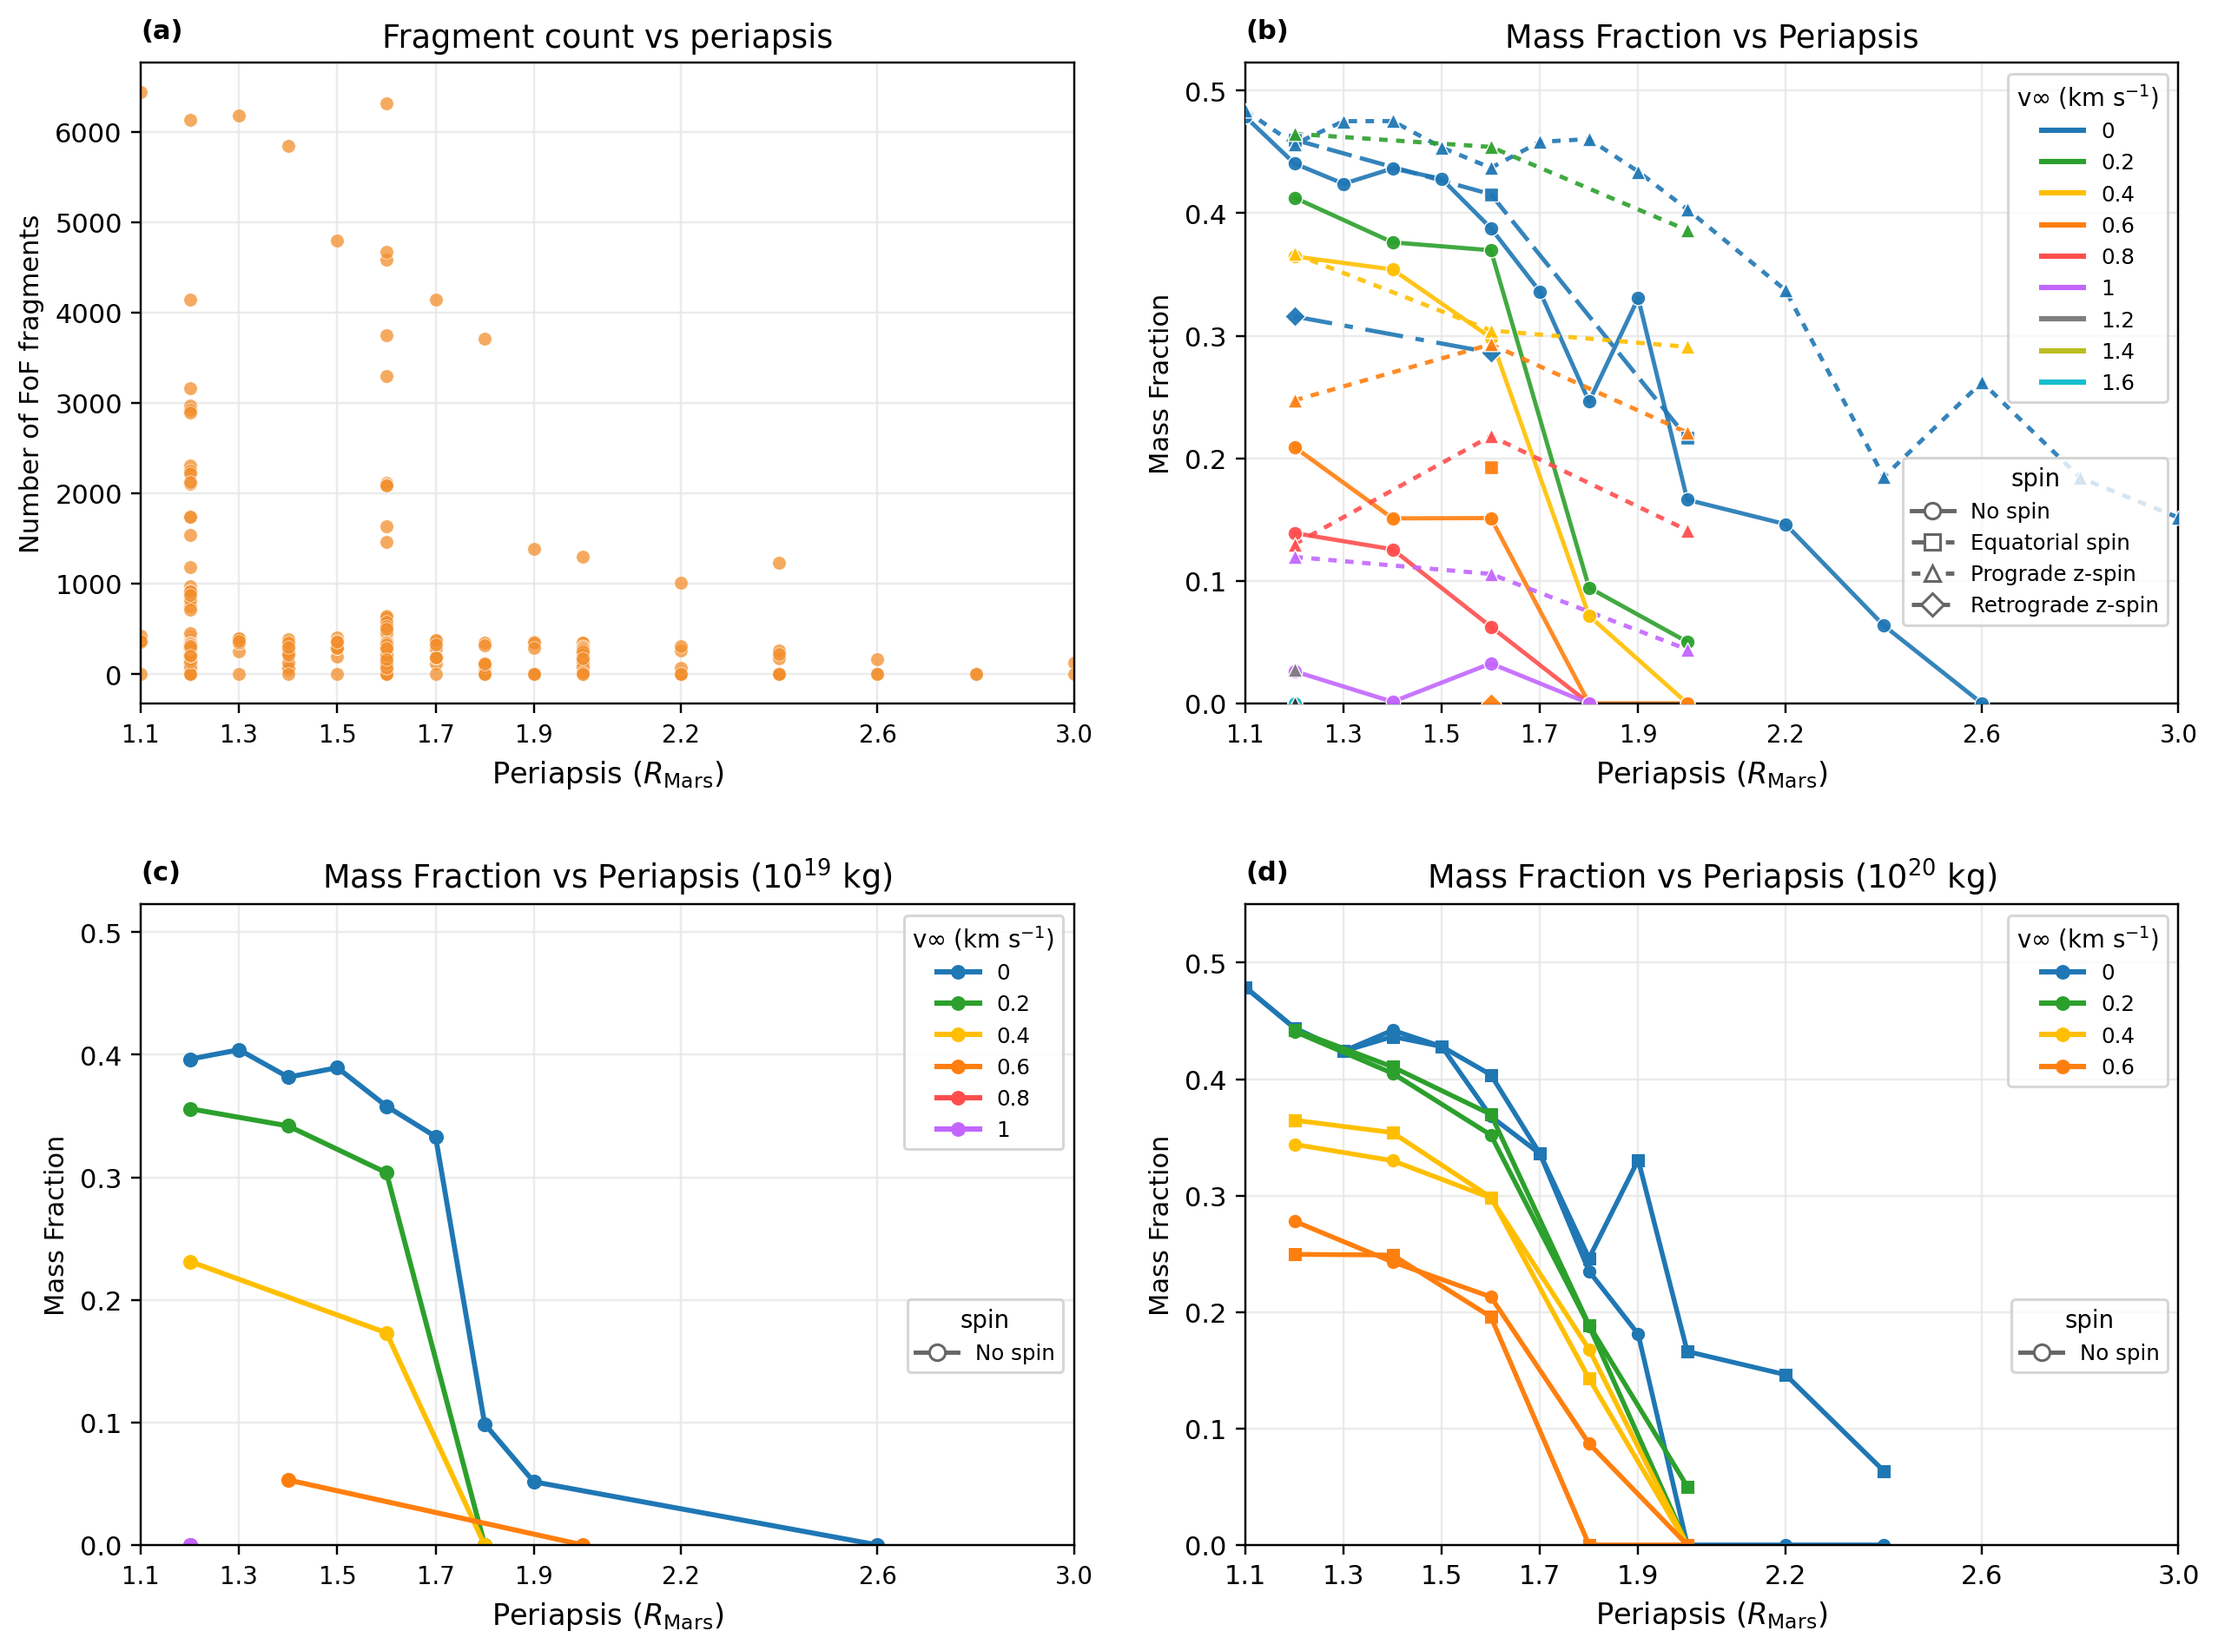
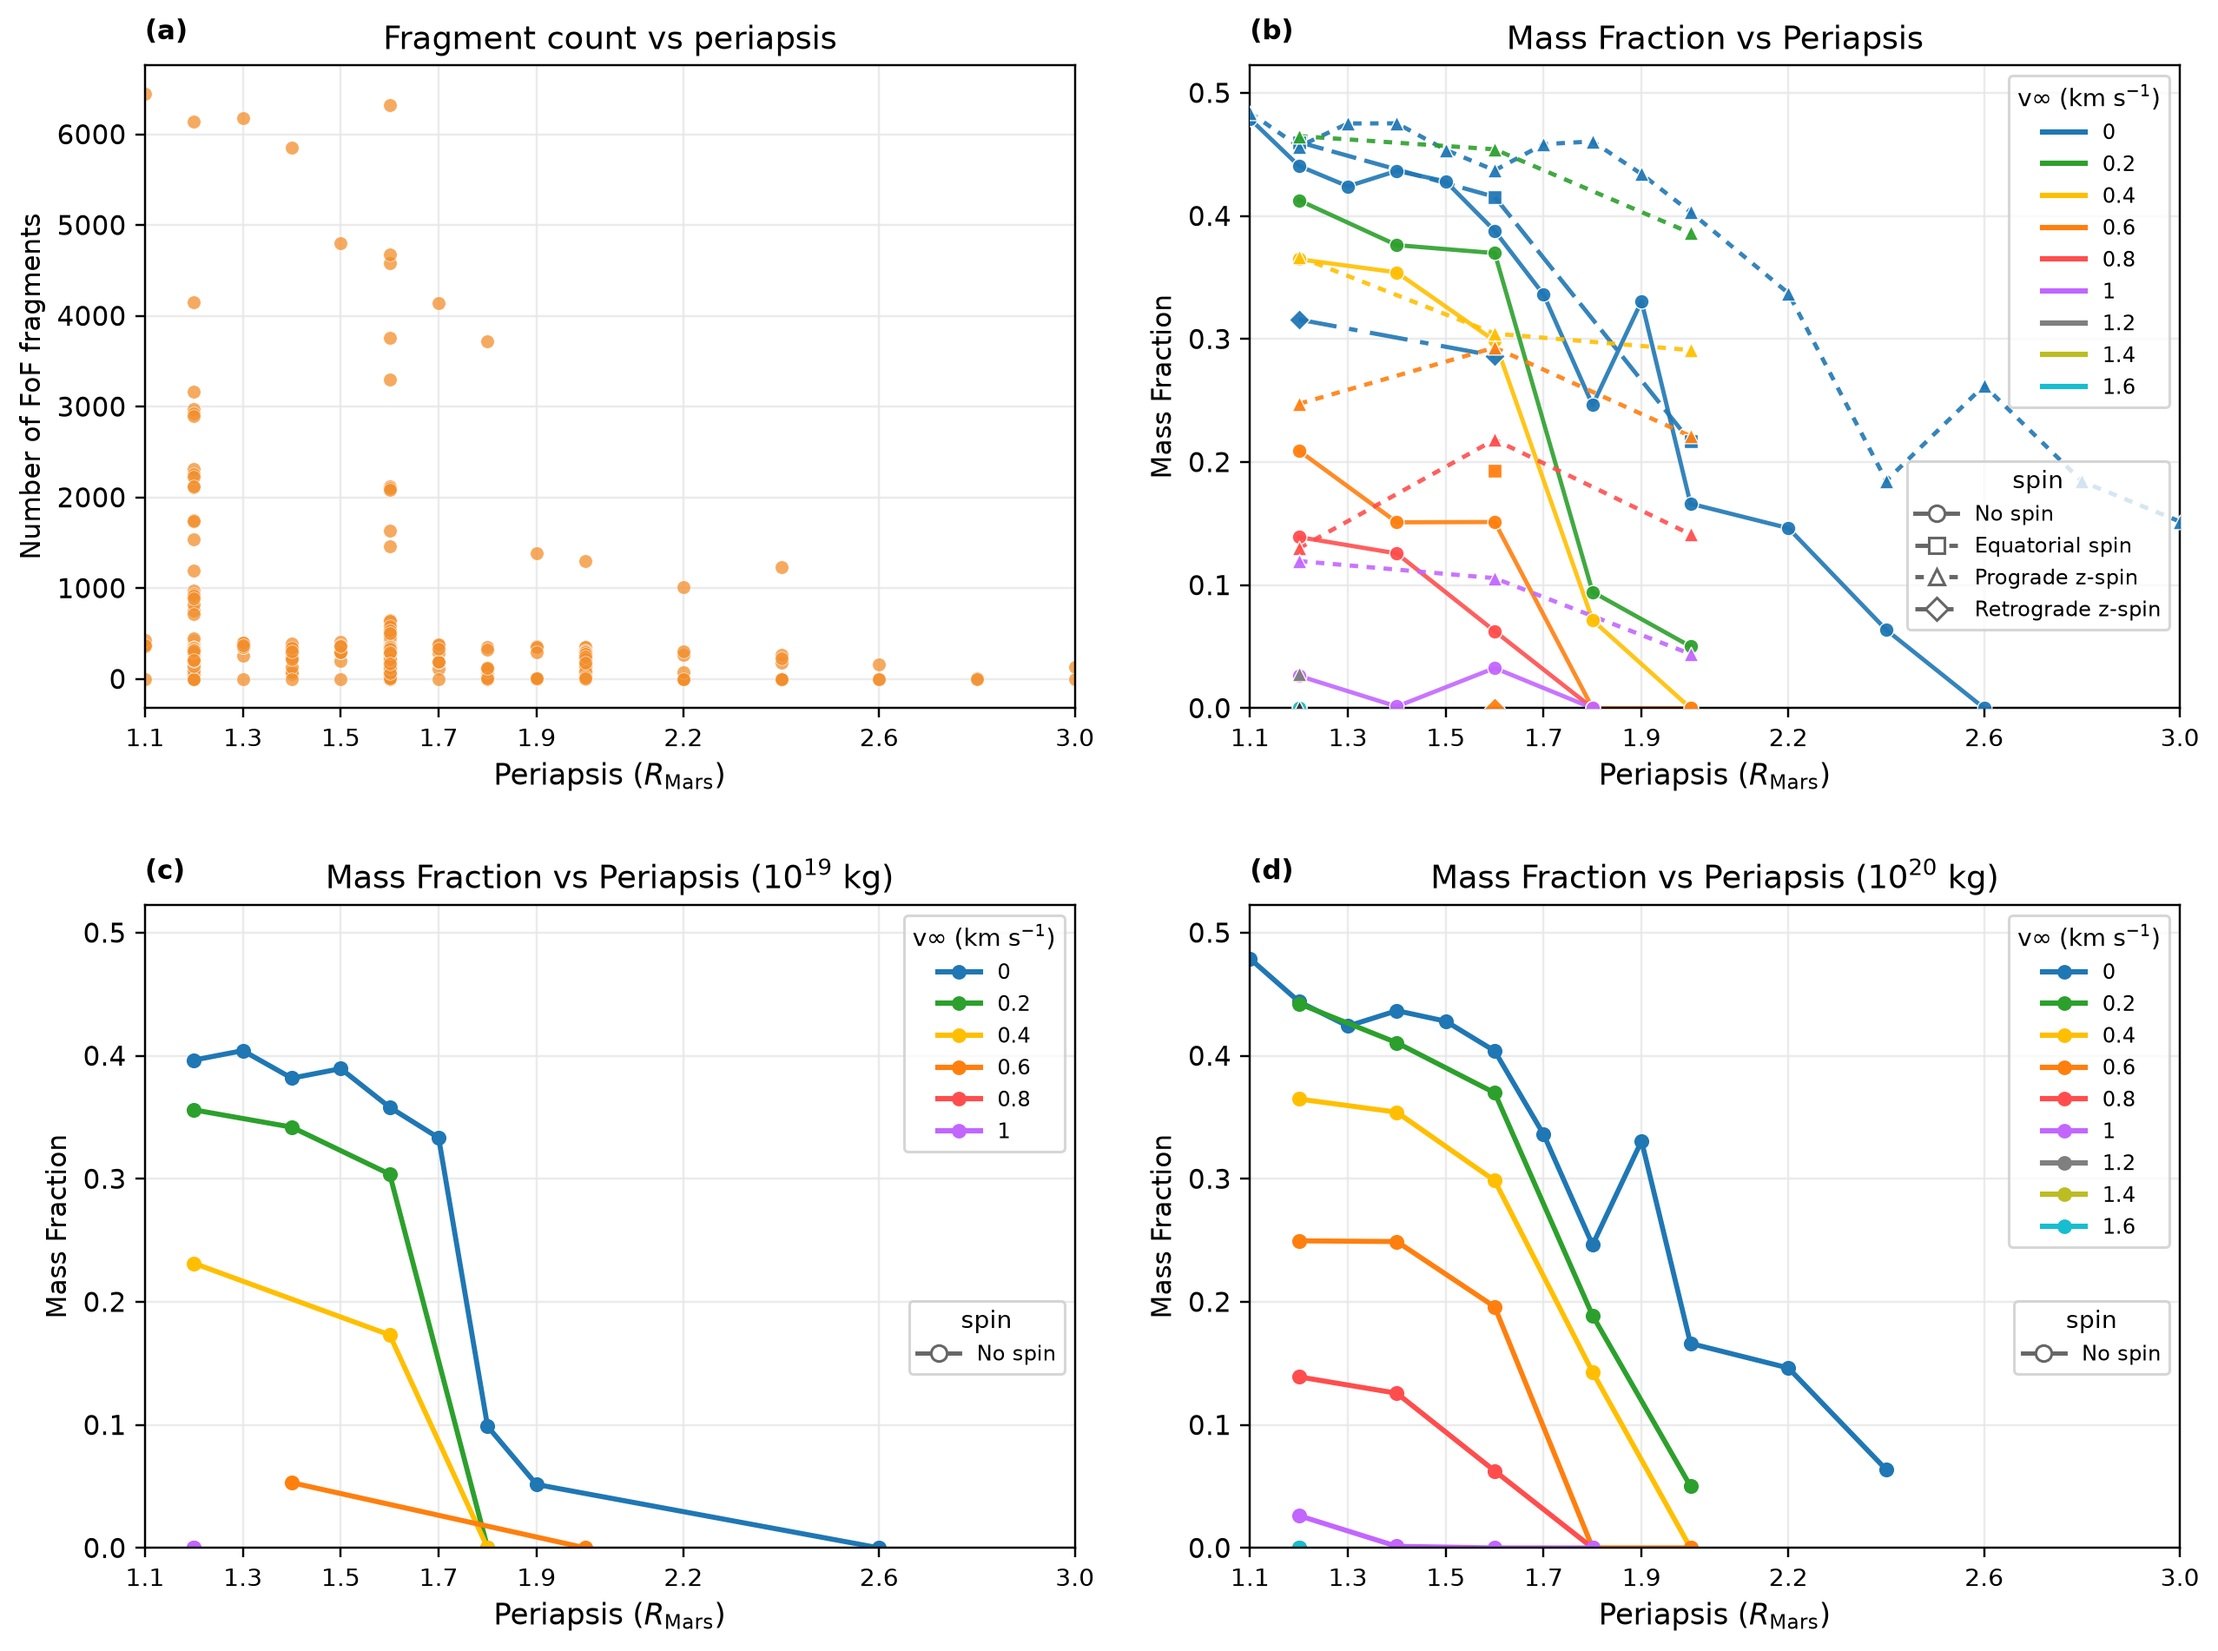
fix: remove paper reference in figure 1

diff --git a/report-table-figure/figures/figure1_build.py b/report-table-figure/figures/figure1_build.py
@@ -271,62 +271,17 @@ def draw_exact_archive_panel(ax: plt.Axes, subset: pd.DataFrame, title: str, y_m
     ax.set_ylim(0.0, y_max)
     style_axes(ax)
     add_exact_legends(ax, keep_velocities)
-def strict_reference_comparison(frame: pd.DataFrame) -> pd.DataFrame:
-    paper = pd.DataFrame(PAPER_TABLE2_ROWS)
-    strict = exact_subset(frame, "A2000", resolution_code="n65", fof_linking_length=0.0040)[
-        ["periapsis_Rm", "v_inf_kms", "captured_mass_fraction"]
-    ].copy()
-    return paper.merge(strict, on=["periapsis_Rm", "v_inf_kms"], how="left").sort_values(["v_inf_kms", "periapsis_Rm"])
-
-
-def draw_reference_linear_panel(ax: plt.Axes, comparison: pd.DataFrame) -> None:
-    velocities_present: list[float] = []
-    for velocity, rows in comparison.groupby("v_inf_kms", sort=True):
-        color = VELOCITY_COLORS.get(float(velocity), "#333333")
-        rows = rows.sort_values("periapsis_Rm")
-        velocities_present.append(float(velocity))
-        ax.plot(
-            rows["periapsis_Rm"],
-            rows["paper_f_capt"],
-            color=color,
-            linewidth=1.8,
-            linestyle="-",
-            marker="o",
-            markersize=4.0,
-            label=f"Reference {velocity:g}",
-        )
-        ax.plot(
-            rows["periapsis_Rm"],
-            rows["captured_mass_fraction"],
-            color=color,
-            linewidth=1.8,
-            linestyle="-",
-            marker="s",
-            markersize=3.8,
-            label=f"Archive {velocity:g}",
-        )
-    ax.set_title(r"Mass Fraction vs Periapsis ($10^{20}$ kg)", fontsize=12)
-    ax.set_xlabel(r"Periapsis ($R_{\mathrm{Mars}}$)", fontsize=11)
-    ax.set_ylabel("Mass Fraction")
-    ax.set_xlim(*PERI_RANGE)
-    ax.set_xticks(PERI_TICKS)
-    ax.set_ylim(0.0, 0.55)
-    style_axes(ax)
-    add_exact_legends(ax, velocities_present)
-
-
 def main() -> None:
     OUTPUT_PATH.parent.mkdir(parents=True, exist_ok=True)
     frame = load_frame()
     grouped_all = grouped_metric_panel(frame)
     exact_mass19 = exact_subset(frame, "A1900", resolution_code="n65", fof_linking_length=0.0020)
-    comparison = strict_reference_comparison(frame)
+    exact_mass20 = exact_subset(frame, "A2000", resolution_code="n65", fof_linking_length=0.0040)
     y_max = max(
         0.52,
         float(grouped_all["metric_median"].max()) * 1.08 if not grouped_all.empty else 0.0,
         float(exact_mass19["captured_mass_fraction"].max()) * 1.08 if not exact_mass19.empty else 0.0,
-        float(comparison["captured_mass_fraction"].max()) * 1.08 if comparison["captured_mass_fraction"].notna().any() else 0.0,
-        float(comparison["paper_f_capt"].max()) * 1.08 if comparison["paper_f_capt"].notna().any() else 0.0,
+        float(exact_mass20["captured_mass_fraction"].max()) * 1.08 if not exact_mass20.empty else 0.0,
     )
     y_max = min(0.55, y_max)
 
@@ -339,7 +294,12 @@ def main() -> None:
         r"Mass Fraction vs Periapsis ($10^{19}$ kg)",
         y_max,
     )
-    draw_reference_linear_panel(axes[1, 1], comparison)
+    draw_exact_archive_panel(
+        axes[1, 1],
+        exact_mass20,
+        r"Mass Fraction vs Periapsis ($10^{20}$ kg)",
+        y_max,
+    )
 
     for ax, panel_label in zip(axes.flat, PANEL_LABELS):
         ax.text(0.0, 1.03, panel_label, transform=ax.transAxes, ha="left", va="bottom", fontsize=10, fontweight="bold")
